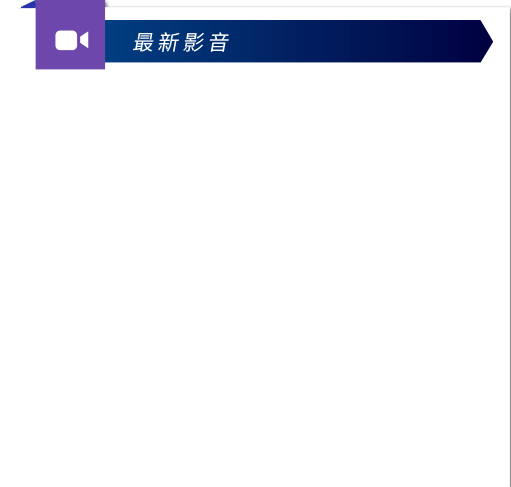
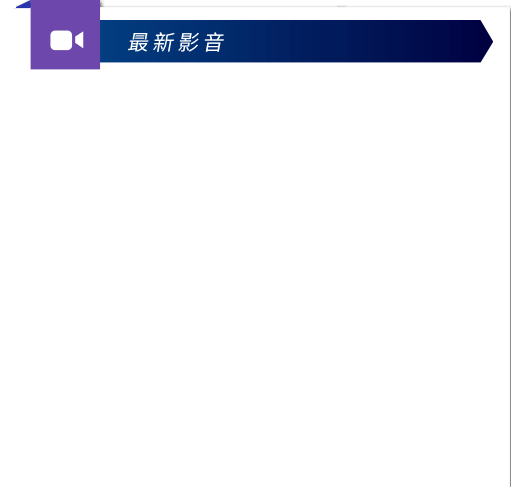
版面區塊對齊調整 #20151126

Changed region(s): [[0.0294, 0.0, 0.2055, 0.154], [0.2348, 0.0616, 0.4403, 0.1232]]

diff --git a/news_list.html b/news_list.html
@@ -102,14 +102,12 @@
                           </div>
                           <br class="clean">
                       </li>
-                      <li><a href="news_main.html"><h4>2015洛杉磯車展：力求突破 美規Ford Escape小改登場</h4></a>
-                          <img src="images/pic_sample-23.jpg" alt="*">
-                          <div class="news_info">
-                              <p class="viewinfo">2015/11/22│撰文：明翰│點閱數：724</p>
-                              <p>現行的美規Ford Escape，就是目前臺灣販售的Kuga而2015洛杉磯車展，Ford針對美規Escape發表2017年式的小改款，外觀上小幅改變，配備與動力則是美規Escape改款的重點。</p>
-                          </div>
-                          <br class="clean">
-                      </li>
+                  </ul>
+                  <ul id="news_list2">
+                      <li><a href="#" title="2016臺北車展: Luxgen預告S3 EV+電動車首演">2016臺北車展: Luxgen預告S3 EV+電動車首演2016臺北車展: Luxgen預告S3 EV+電動車首演</a></li>
+                      <li><a href="#" title="被Toyota擠下，福斯前十月全球銷售量僅達826萬輛">被Toyota擠下，福斯前十月全球銷售量僅達826萬輛</a></li>
+                      <li><a href="#" title="2016臺北車展：Kia預告大改Sportage領軍登台">2016臺北車展：Kia預告大改Sportage領軍登台</a></li>
+                      <li><a href="#" title="公益路跑，Luxgen號召全民加入Running Love行列">公益路跑，Luxgen號召全民加入Running Love行列</a></li>
                   </ul>
                   
                   <ul id="morenews">
@@ -117,19 +115,23 @@
                         <li><a href="#" title="被Toyota擠下，福斯前十月全球銷售量僅達826萬輛">被Toyota擠下，福斯前十月全球銷售量僅達826萬輛</a></li>
                         <li><a href="#" title="2016臺北車展：Kia預告大改Sportage領軍登台">2016臺北車展：Kia預告大改Sportage領軍登台</a></li>
                         <li><a href="#" title="公益路跑，Luxgen號召全民加入Running Love行列">公益路跑，Luxgen號召全民加入Running Love行列</a></li>
-                        <li><a href="#" title="公益路跑，Luxgen號召全民加入Running Love行列">公益路跑，Luxgen號召全民加入Running Love行列</a></li>
+                        <li><a href="#" title="2016臺北車展: Luxgen預告S3 EV+電動車首演">2016臺北車展: Luxgen預告S3 EV+電動車首演2016臺北車展: Luxgen預告S3 EV+電動車首演</a></li>
+                        <li><a href="#" title="被Toyota擠下，福斯前十月全球銷售量僅達826萬輛">被Toyota擠下，福斯前十月全球銷售量僅達826萬輛</a></li>
                         <li><a href="#" title="2016臺北車展：Kia預告大改Sportage領軍登台">2016臺北車展：Kia預告大改Sportage領軍登台</a></li>
                         <li><a href="#" title="公益路跑，Luxgen號召全民加入Running Love行列">公益路跑，Luxgen號召全民加入Running Love行列</a></li>
+                        <li><a href="#" title="2016臺北車展: Luxgen預告S3 EV+電動車首演">2016臺北車展: Luxgen預告S3 EV+電動車首演2016臺北車展: Luxgen預告S3 EV+電動車首演</a></li>
+                        <li><a href="#" title="被Toyota擠下，福斯前十月全球銷售量僅達826萬輛">被Toyota擠下，福斯前十月全球銷售量僅達826萬輛</a></li>
+                        <li><a href="#" title="2016臺北車展：Kia預告大改Sportage領軍登台">2016臺北車展：Kia預告大改Sportage領軍登台</a></li>
                         <li><a href="#" title="公益路跑，Luxgen號召全民加入Running Love行列">公益路跑，Luxgen號召全民加入Running Love行列</a></li>
                     </ul>
               </div>
         </div><!--//end #box_complex-->
         
         
-        <div id="box_aside"><!--右側活動連結-->
+        <div id="box_aside" style="padding-top:7px"><!--右側活動連結-->
           <div id="box_hotevent">
             <ul id="portfolio">
-              <li><a href="news_main.html" title="Lexus RX 200t旗艦版試駕"> <img src="images/pic_sample-04.jpg" alt="Lexus RX 200t"><!-- 圖片尺寸：298*300px-->
+              <li><a href="news_main.html" title="Lexus RX 200t旗艦版試駕"><img src="images/pic_sample-04.jpg" alt="Lexus RX 200t"><!-- 圖片尺寸：298*300px-->
                 <h3>中年大叔的華麗搖滾，Lexus RX 200t旗艦版試駕</h3>
                 <p>2011年的北美圓石灘嘉年華會中，Lexus發表第4代GS，同步也揭示當在家族設計語彙的「Spindle Grille紡錘型水箱護罩」，這也是現行Lexus家族成員一大辨識特徵；隨後在陸續進行的小改款車型上，可以清楚發現紡錘型水箱護罩的進化版本，以更加霸氣、甚至從側面看過去，清楚能發現其前掠態勢的設計，讓Lexus車款有著更動感的氣勢。</p>
               </a></li>

diff --git a/css/xuemain_201511.css b/css/xuemain_201511.css
@@ -244,8 +244,8 @@ nav h3{ display:none}
 #bar_news{
 	display:block;
 	width:570px;
-	height:98px;
-	background:url(../images/bg_news.png) no-repeat;
+	height:104px;
+	background:url(../images/bg_news.png) no-repeat #000028;
 	padding:22px 20px 0 135px}
 #bar_news li{
 	width:560px;
@@ -783,7 +783,7 @@ footer p{
 	color:#FFF;
 	text-align:center}
 #news_list a.btn_more:hover{ text-decoration:none; background:#6C46AA}
-#morenews li{
+#morenews li, #news_list2 li{
 	height:25px;
 	overflow:hidden;
 	font-size:.813em;
